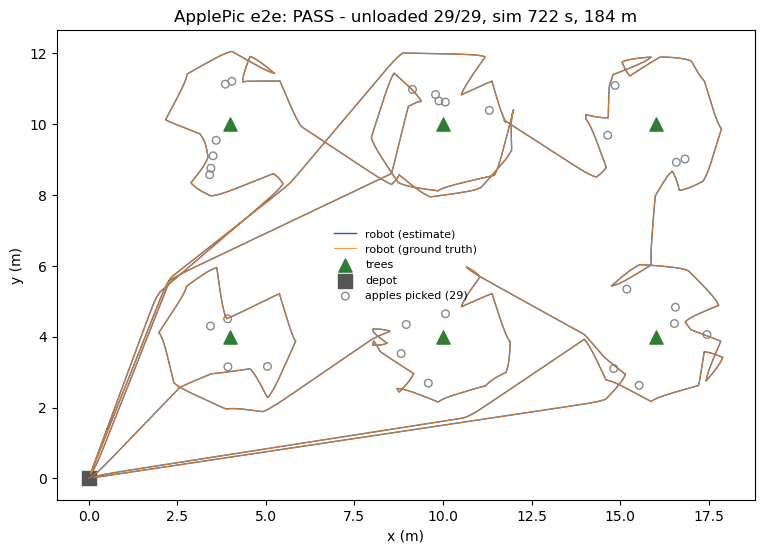
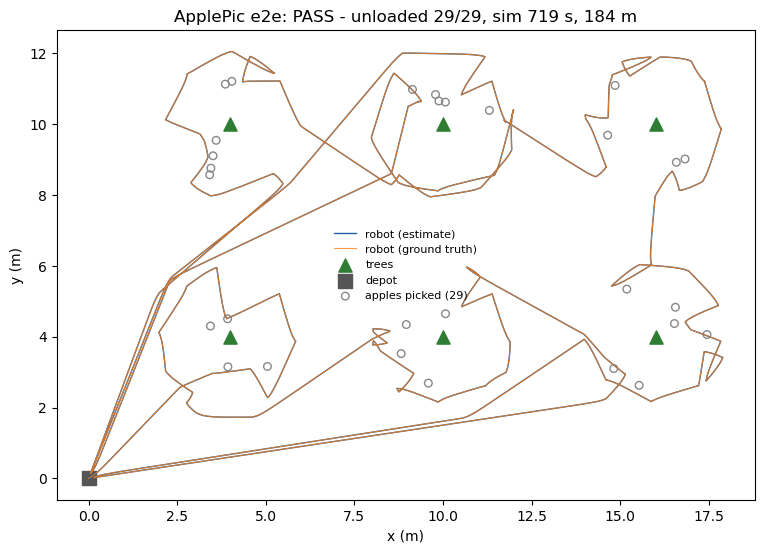
docs: rewrite README with demo GIF, architecture diagrams and measured results
Results from four headless e2e runs on 2026-11-12: default orchard 29/29 twice,
hard orchard 29/29, coarse GPS 28/29.

diff --git a/README.md b/README.md
@@ -1,76 +1,153 @@
 # ApplePic
 
-A simulated robot that finds apples on the ground of an orchard, collects them and brings them back to a depot.
-Built with ROS 2 Jazzy and Gazebo Harmonic, developed mostly by autonomous [Claude Code](https://claude.com/claude-code) sessions.
+**A simulated robot that finds apples fallen in an orchard, picks them up and brings them back to a depot.**
 
-| Mission trajectory | What the camera sees |
+[![CI](https://github.com/marcocopops/applepic/actions/workflows/ci.yml/badge.svg)](https://github.com/marcocopops/applepic/actions/workflows/ci.yml)
+[![License: Apache-2.0](https://img.shields.io/badge/license-Apache--2.0-blue.svg)](LICENSE)
+[![ROS 2 Jazzy](https://img.shields.io/badge/ROS_2-Jazzy-22314E?logo=ros)](https://docs.ros.org/en/jazzy/)
+[![Gazebo Harmonic](https://img.shields.io/badge/Gazebo-Harmonic-F58113)](https://gazebosim.org/docs/harmonic/)
+
+![The robot searching around a tree and picking apples, sped up](docs/media/demo.gif)
+
+## What it does
+
+Apples that fall on the ground are lost if nobody picks them up in time. ApplePic is a proof of concept, in
+simulation, of a small autonomous robot (a 60 x 45 cm mower-style base with a camera and a basket) that
+does this job:
+
+1. **Go to the next tree**: one waypoint per tree, with a path around trunks and known obstacles.
+2. **Search the ground around it**: the robot circles the tree and keeps a grid of the ground its camera has seen.
+3. **Detect** apples in the camera image and locate them on the ground.
+4. **Pick** each apple (simulated for now: see [status](#project-status-and-roadmap)).
+5. **Next tree**, once the whole ring under the tree has been seen.
+6. **Unload** at the depot when the basket is full or the loop is done, then **repeat**.
+
+## Key features
+
+| | |
 |---|---|
-| ![Trajectory of a full mission: 29 of 29 apples deposited](docs/images/e2e_trajectory.png) | ![Camera image with four detected apples](docs/images/camera_detections.png) |
+| ![Overview of the orchard with the robot at work](docs/media/overview.jpg) | ![What the robot camera sees: apples detected and located on the ground](docs/media/camera_detections.png) |
+| ![The robot next to apples under a tree](docs/media/closeup.jpg) | ![The robot back at the depot to unload](docs/media/depot.jpg) |
 
-## Status
-**Working today, measured headless:**
-- The robot goes around each of the 6 trees, searches the ground with its camera, picks the apples and empties its basket at the depot.
-- Default orchard: 29/29 apples deposited in about 720 simulated seconds (about 4.5 min of real time at 3x speed).
-- Coarse GPS (0.5 m noise + 1 m bias) with the pose corrected on tree trunks: 31/31 on one orchard. With unknown obstacles added: 26/29 on the latest run.
+- **Perception**: HSV color segmentation, pixels projected on the flat ground (error at most 1.5 cm), and detection fusion into tracks.
+- **Coverage-driven search**: the camera footprint is projected on a 10 cm grid around each tree; the robot leaves once 99.5 % of the ground where apples fall has been seen.
+- **Pure-Python mission state machine**, unit tested without ROS.
+- **GPS localization**: a home-made EKF on GPS, wheel odometry and gyro, corrected on tree trunks seen by the camera. It still works with a coarse GPS (0.5 m noise + 1 m bias).
+- **Bumper**: contacts with unknown obstacles are remembered, and the next path goes around them (A* on a grid).
+- **Configurable orchards** generated from YAML: default, hard (tall grass, orange, dark and bruised apples), and with unknown obstacles.
+- **Headless end-to-end test** scored against Gazebo: picked apples must really be gone from the world.
 
-**Not there yet:**
-- **The robot has no arm yet.** Picking is "magic": an apple within 7 cm of a virtual gripper point is removed from the simulation. A real arm and two-finger gripper with MoveIt 2 are the next milestones.
-- The wheels pass through apples, a simplification made to stop the physics engine from throwing them.
-- The world is easy: flat ground and plain colours, with no red objects to confuse the color-based detector.
-- Results vary between runs. The GUI demo was last run in session 14, before the latest changes.
+## Architecture
 
-The plan, with a verifiable criterion per milestone, is in [`KICKOFF.md`](KICKOFF.md). See also the [audit](docs/AUDIT.md) and the [design decisions](docs/DECISIONS.md).
+```mermaid
+flowchart LR
+  gz["Gazebo Harmonic<br/>orchard + robot"] -- camera --> det[apple_detector]
+  gz -- "odometry, IMU, GPS" --> loc[localizer]
+  det -- "apples, trunks" --> mis[mission]
+  det -- trunks --> loc
+  loc -- "pose (map frame)" --> mis
+  gz -- bumper --> mis
+  mis -- "/cmd_vel" --> gz
+  grip[gripper] -- "picked, basket full" --> mis
+  mis -- unload --> grip
+  grip -- "remove apple" --> gz
+  mis -- stats --> viz[mission_viz] --> rviz[(RViz)]
+```
 
-## How it works
-| Part | Approach |
+```mermaid
+stateDiagram-v2
+  direction LR
+  [*] --> GOTO_TREE
+  GOTO_TREE --> SEARCH
+  SEARCH --> PICK: apple confirmed
+  PICK --> SEARCH
+  SEARCH --> GOTO_TREE: tree done
+  SEARCH --> GOTO_BASE: basket full / loop done
+  GOTO_BASE --> UNLOAD
+  UNLOAD --> GOTO_TREE
+  UNLOAD --> DONE
+```
+
+| Package | Role |
 |---|---|
-| Perception | HSV color segmentation, pixels projected on the flat ground |
-| Search | Camera coverage grid around each tree, tree left once its ground has been seen |
-| Mission | Pure Python state machine, unit tested without ROS |
-| Localization | Ground truth, or a home-made EKF on GPS, wheel odometry, gyro and tree trunks seen by the camera |
-| Obstacles | Remembered on bumper contact, then avoided with a grid search |
+| `applepic_description` | Robot URDF: differential base, camera, IMU, GPS, bumper, basket |
+| `applepic_gazebo` | Orchard world generator (YAML → SDF + ground-truth apple manifest), ros_gz bridge |
+| `applepic_perception` | Apple and trunk detection, projection on the ground |
+| `applepic_navigation` | Point controller, A* path planning, GPS model, EKF localization |
+| `applepic_mission` | Mission state machine, apple tracker, coverage grid, gripper, RViz markers |
+| `applepic_bringup` | Launch files |
 
-## Requirements
-- Ubuntu 24.04 with ROS 2 Jazzy and `ros-jazzy-ros-gz`.
-- A GPU is recommended for camera rendering. Only tested on an NVIDIA GPU.
+More in [`docs/architecture.md`](docs/architecture.md) and the design decisions in [`docs/decisions.md`](docs/decisions.md).
 
 ## Quick start
-```bash
-make test   # build and unit tests (~20 s)
-make e2e    # full mission headless (~5 min), prints PASS or FAIL
-make demo   # full mission with the Gazebo and RViz windows
-```
-`make e2e` writes `artifacts/e2e_metrics.json` and `artifacts/e2e_trajectory.png`.
 
-Variations:
+Prerequisites: Ubuntu 24.04, [ROS 2 Jazzy](https://docs.ros.org/en/jazzy/Installation.html) and Gazebo Harmonic
+through `ros-jazzy-ros-gz`. A GPU is recommended for camera rendering (tested on NVIDIA only).
+
+```bash
+sudo apt install ros-jazzy-ros-gz ros-jazzy-xacro ros-jazzy-cv-bridge python3-opencv
+git clone https://github.com/marcocopops/applepic.git && cd applepic
+
+make test   # build + unit tests (~20 s)
+make e2e    # full mission headless at 3x real time (~5 min), prints PASS or FAIL
+make demo   # full mission with the Gazebo and RViz windows (needs a screen)
+```
+
+`make e2e` writes `artifacts/e2e_metrics.json` and a trajectory plot `artifacts/e2e_trajectory.png`. Variants:
+
 ```bash
 make e2e E2E_SEED=7                                  # other apple positions
 make e2e LOCALIZATION=gps GPS_NOISE=0.5 GPS_BIAS=1.0 # coarse GPS
-make e2e ORCHARD_CONFIG=src/applepic_gazebo/config/orchard_hard.yaml      # tall grass, damaged apples
-make e2e ORCHARD_CONFIG=src/applepic_gazebo/config/orchard_obstacles.yaml # unknown obstacles
+make e2e ORCHARD_CONFIG=src/applepic_gazebo/config/orchard_hard.yaml       # tall grass, damaged apples
+make e2e ORCHARD_CONFIG=src/applepic_gazebo/config/orchard_obstacles.yaml  # unknown obstacles
 ```
 
-## Demo
-`make demo` opens Gazebo and RViz (about 15 s to appear, needs a screen). A full loop takes about 12 minutes at real-time speed; `make demo DEMO_RTF=2` runs it at twice the speed if the machine keeps up. `Ctrl+C` stops everything.
+An optional `docker/Dockerfile` (`make docker-image`, then `USE_DOCKER=1 make test`) exists but has not been verified; the native
+setup is the tested one. CI runs the build and unit tests in the official `ros:jazzy-ros-base` image.
 
-If the robot has not moved after 30 s, stop and start again: one start in 9 stayed silent in earlier testing, cause unknown.
+## Results
 
-To follow the mission in another terminal:
-```bash
-source /opt/ros/jazzy/setup.bash && source install/setup.bash
-ros2 topic echo /mission/status
-ros2 topic echo /basket/count
-```
+Headless runs of `make e2e` (one loop from the depot, 6 trees, capacity 10 apples, 3x real time), measured on
+2026-11-12 on an NVIDIA laptop GPU. Time is simulated time; runs are not deterministic.
 
-## Repository layout
-| Package | Content |
+| Scenario | Apples deposited | Time | Distance | Wall time |
+|---|---|---|---|---|
+| Default orchard, run 1 | **29 / 29** | 719 s | 184 m | 4 min 18 s |
+| Default orchard, run 2 | **29 / 29** | 725 s | 184 m | 4 min 18 s |
+| Hard orchard (tall grass, orange, dark and bruised apples) | **29 / 29** | 739 s | 187 m | 4 min 34 s |
+| Coarse GPS (0.5 m noise + 1 m bias), default orchard | **28 / 29** | 889 s | 263 m | 5 min 16 s |
+
+With the coarse GPS the localization error against ground truth was 0.65 m on average (95th percentile 1.66 m),
+and 3 pick attempts were given up.
+
+| Default orchard: 29/29 | Coarse GPS: estimated (blue) vs true (orange) path |
 |---|---|
-| `applepic_description` | Robot URDF |
-| `applepic_gazebo` | Orchard world generator, worlds, bridge configuration |
-| `applepic_navigation` | Controller, path planning, GPS model, localization |
-| `applepic_perception` | Apple and trunk detection, projection on the ground |
-| `applepic_mission` | State machine, apple tracker, coverage, magic gripper, RViz markers |
-| `applepic_bringup` | Launch files |
+| ![Trajectory of the robot around the six trees, 29 apples picked](docs/media/e2e_trajectory.png) | ![Trajectory with a coarse GPS: estimated and true paths, one apple left](docs/media/e2e_trajectory_gps.png) |
+
+## Project status and roadmap
+
+**What is simulated or simplified today**
+- **There is no arm yet.** Picking is "magic": when the gripper point is within 7 cm of an apple, using the
+  ground-truth pose, the apple is removed from the simulation.
+- The wheels do not collide with apples, so the robot never pushes or crushes them.
+- The world is easy: flat ground, plain colors, fixed lighting, tree positions known in advance.
+- Navigation uses a home-made controller, EKF and A* rather than Nav2.
+
+**Next** (each step has a criterion checked headless, see [`docs/roadmap.md`](docs/roadmap.md))
+1. Clean-up and validation series (several runs per scenario, median score).
+2. A **real articulated arm with a two-finger gripper, driven by MoveIt 2**. An apple is attached only when both fingers touch it, and picking uses the camera estimate instead of the ground truth.
+3. Demo video, then perception measured on scenes with traps (red objects, leaves, three lightings).
+4. Validation of the simulated proof of concept: 3 orchards x 3 runs, at least 90 % of apples deposited.
+5. A **physical prototype**, targeted for summer 2027.
+
+## How it was built
+
+Most of this code was written by [Claude Code](https://claude.com/claude-code) running unattended, in a loop:
+each session starts with an empty context, reads the brief and the progress notes in the repository, implements
+the next milestone, checks it headless, commits and hands over. A human sets the goals and reviews between
+runs. The brief, the runner script, an audit of what worked and what did not, and the lessons learned are in
+[`docs/ai-workflow/`](docs/ai-workflow/).
 
 ## License
-[Apache-2.0](LICENSE)
+
+[Apache-2.0](LICENSE) © Marc-Antoine Meunier
